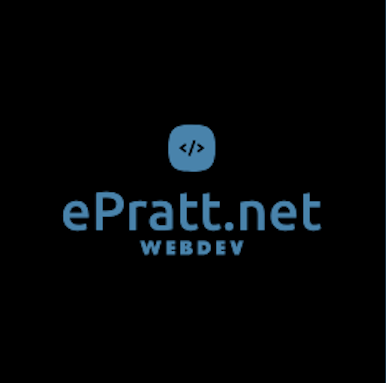
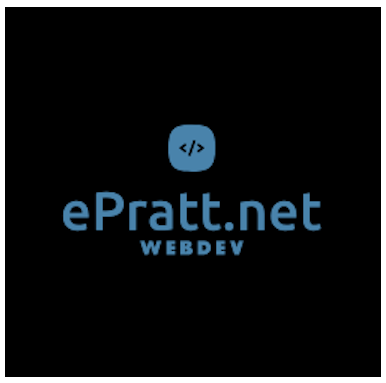
layout changes

Changed region(s): [[0.0, 0.0, 1.0, 1.0]]

diff --git a/public/stylesheets/style.css b/public/stylesheets/style.css
@@ -6,8 +6,24 @@ html, body {
   font-family: 'Roboto', sans-serif;
 }
 
-.container {
+.btn {
+  margin: auto 5px;
+}
+
+.black {
+  background-color: black;
+}
+
+.grey {
   text-align: center;
+  background-color: #e9ecef;
+  padding-top: 3rem;
+  height: 300px;
+  width: 66%;
+}
+
+#navlogo {
+  margin: 0 auto;
 }
 
 @media only screen and (max-device-width:480px){
